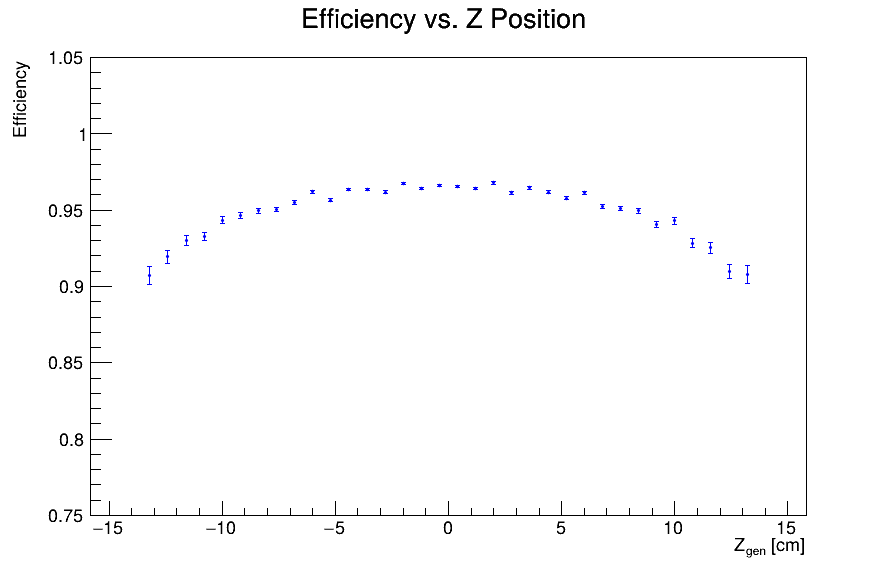
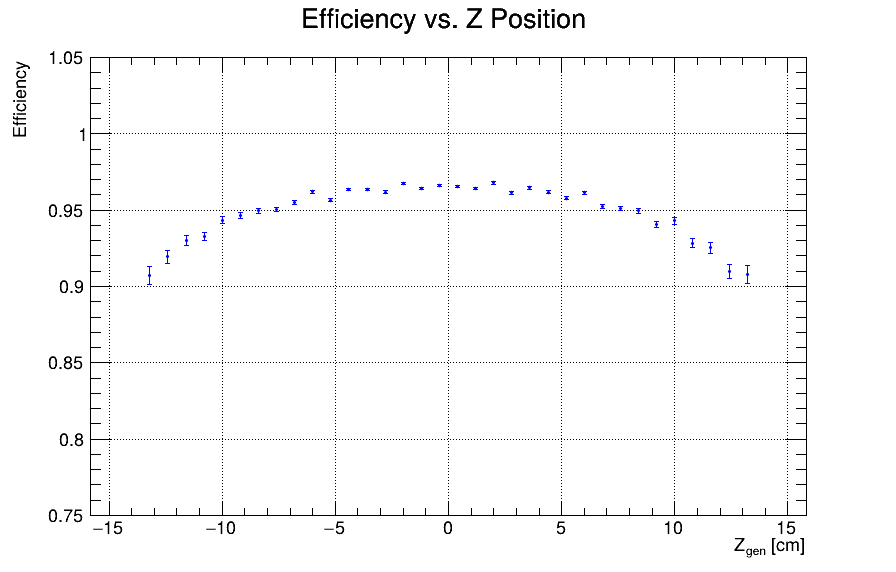
improved plots

diff --git a/project/macros/analysis.C b/project/macros/analysis.C
@@ -86,7 +86,7 @@ void analysis(unsigned int events = 1000000) {
     const double zMax = 20;
 
 
-    const int nZProfileBins = 11;
+    const int nZProfileBins = 54;
     const double zProfileMin = -13.5;  
     const double zProfileMax = 13.5;
 
@@ -271,44 +271,53 @@ void analysis(unsigned int events = 1000000) {
     graphEff->SetMarkerColor(kBlue);
     
     TCanvas* canvasZDiffGen = new TCanvas("canvasZDiffGen", "Z Difference vs Generated Z", 900, 600);
-
-    profileZDiffGen->GetYaxis()->SetRangeUser(0, 0.05);
+    canvasZDiffGen->SetTicks(1, 1);
+    canvasZDiffGen->SetGrid();
+    profileZDiffGen->GetYaxis()->SetRangeUser(0, 0.1);
     profileZDiffGen->SetStats(0);
     profileZDiffGen->Draw();
     canvasZDiffGen->SaveAs("../plots/ZDiff_vs_ZGen.png");
     profileZDiffGen->Write();
 
     TCanvas* canvasMult = new TCanvas("canvasMult", "Multiplicity Distributions", 900, 600);
-    
+    canvasMult->SetTicks(1, 1);
+    canvasMult->SetGrid();
     TLegend* legend = new TLegend(0.65, 0.75, 0.85, 0.85);
     legend->AddEntry(histMultTotal, "Total Events", "l");
     legend->AddEntry(histMultValid, "Valid Events", "l");
-    
     histMultTotal->Draw("HIST");
     histMultValid->Draw("HIST SAME");
     histMultTotal->SetStats(0);
     histMultValid->SetStats(0);
     legend->Draw();
-    
     canvasMult->SaveAs("../plots/MultiplicityDistributions.png");
 
     TCanvas* canvasGraph = new TCanvas("canvasGraph", "Efficiency vs. Multiplicity", 900, 600);
+    canvasGraph->SetTicks(1, 1);
+    canvasGraph->SetGrid();
     graphEff->Draw("AP");
     graphEff->GetYaxis()->SetRangeUser(0.85, 1.05);
     canvasGraph->SaveAs("../plots/Efficiency_vs_Multiplicity.png");
 
     TCanvas* canvasHist = new TCanvas("canvasHist", "Z Residuals", 900, 600);
+    canvasHist->SetTicks(1, 1);
+    canvasHist->SetGrid();
     histRes->Draw("E1 P");
     canvasHist->SaveAs("../plots/ZResiduals.png");
 
     TCanvas* canvasMultZDiff = new TCanvas("canvasMultZDiff", "Absolute Z Difference vs Multiplicity", 800, 600);
+    canvasMultZDiff->SetTicks(1, 1);
+    canvasMultZDiff->SetGrid();
     graphZDiff->Draw("AP");
     canvasMultZDiff->SaveAs("../plots/ZDiff_vs_Multiplicity.png");
 
     TCanvas* canvasEffZ = new TCanvas("canvasEffZ", "Efficiency vs Z Position", 900, 600);
+    canvasEffZ->SetTicks(1, 1);
+    canvasEffZ->SetGrid();
     graphEffZ->Draw("AP");
     graphEffZ->GetYaxis()->SetRangeUser(0.75, 1.05);
     canvasEffZ->SaveAs("../plots/Efficiency_vs_Z.png");
+
 
     outputFile->cd();
     histRes->Write();
